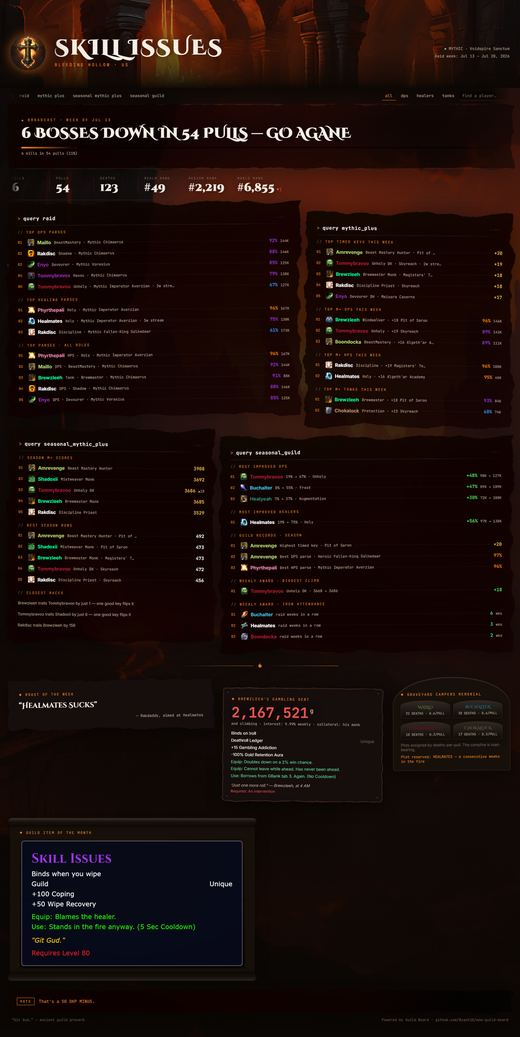
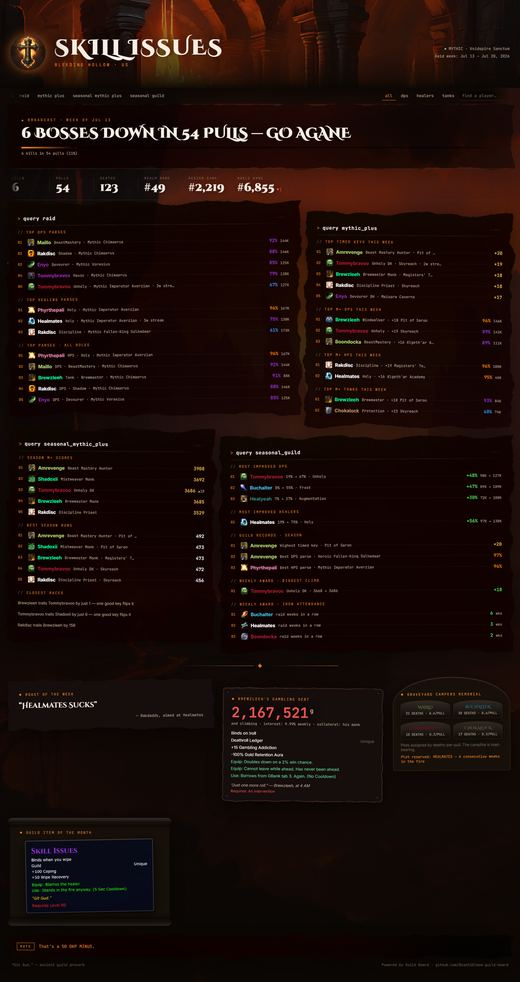
Polish: the imported item art was the last hard rectangle
The item-of-the-month tooltip arrives as a bitmap, so it can't be
edge-filtered like the other surfaces — the displacement would garble
the text inside it. Treated as a physical object instead: capped at
400px, pinned on a slight angle with a real shadow, so it reads as a
card lying on the page rather than a slab welded into the foot of it.
Its panel drops from a 6-track span to 4 to match.

Vote workflow confirmed pointing at secrets.DISCORD_WEBHOOK_URL — the
same webhook the weekly board posts through, per Zach's confirmation
that it lands in the guild-board channel. Still not triggered.

106 tests pass.

diff --git a/redesign_previews/index.html b/redesign_previews/index.html
@@ -19,20 +19,5 @@
 Both are picked in theme.yml — <code>board.web_layout</code> and the colors/art blocks.
 Resize the window (or open on your phone) to see the reflow.</p>
 <div class="g">
-    <a class="c" href="chronicle__arcanevault.html"><img src="thumbs/chronicle__arcanevault.jpg" alt="" loading="lazy"><span class="m"><span class="l">chronicle</span><span class="t">arcanevault</span></span></a>
-    <a class="c" href="codex__arcanevault.html"><img src="thumbs/codex__arcanevault.jpg" alt="" loading="lazy"><span class="m"><span class="l">codex</span><span class="t">arcanevault</span></span></a>
-    <a class="c" href="ember_terminal__arcanevault.html"><img src="thumbs/ember_terminal__arcanevault.jpg" alt="" loading="lazy"><span class="m"><span class="l">ember_terminal</span><span class="t">arcanevault</span></span></a>
-    <a class="c" href="poster__arcanevault.html"><img src="thumbs/poster__arcanevault.jpg" alt="" loading="lazy"><span class="m"><span class="l">poster</span><span class="t">arcanevault</span></span></a>
-    <a class="c" href="chronicle__drownedgods.html"><img src="thumbs/chronicle__drownedgods.jpg" alt="" loading="lazy"><span class="m"><span class="l">chronicle</span><span class="t">drownedgods</span></span></a>
-    <a class="c" href="codex__drownedgods.html"><img src="thumbs/codex__drownedgods.jpg" alt="" loading="lazy"><span class="m"><span class="l">codex</span><span class="t">drownedgods</span></span></a>
-    <a class="c" href="ember_terminal__drownedgods.html"><img src="thumbs/ember_terminal__drownedgods.jpg" alt="" loading="lazy"><span class="m"><span class="l">ember_terminal</span><span class="t">drownedgods</span></span></a>
-    <a class="c" href="poster__drownedgods.html"><img src="thumbs/poster__drownedgods.jpg" alt="" loading="lazy"><span class="m"><span class="l">poster</span><span class="t">drownedgods</span></span></a>
-    <a class="c" href="chronicle__emberforge.html"><img src="thumbs/chronicle__emberforge.jpg" alt="" loading="lazy"><span class="m"><span class="l">chronicle</span><span class="t">emberforge</span></span></a>
-    <a class="c" href="codex__emberforge.html"><img src="thumbs/codex__emberforge.jpg" alt="" loading="lazy"><span class="m"><span class="l">codex</span><span class="t">emberforge</span></span></a>
-    <a class="c" href="ember_terminal__emberforge.html"><img src="thumbs/ember_terminal__emberforge.jpg" alt="" loading="lazy"><span class="m"><span class="l">ember_terminal</span><span class="t">emberforge</span></span></a>
-    <a class="c" href="poster__emberforge.html"><img src="thumbs/poster__emberforge.jpg" alt="" loading="lazy"><span class="m"><span class="l">poster</span><span class="t">emberforge</span></span></a>
-    <a class="c" href="chronicle__gildedcodex.html"><img src="thumbs/chronicle__gildedcodex.jpg" alt="" loading="lazy"><span class="m"><span class="l">chronicle</span><span class="t">gildedcodex</span></span></a>
     <a class="c" href="codex__gildedcodex.html"><img src="thumbs/codex__gildedcodex.jpg" alt="" loading="lazy"><span class="m"><span class="l">codex</span><span class="t">gildedcodex</span></span></a>
-    <a class="c" href="ember_terminal__gildedcodex.html"><img src="thumbs/ember_terminal__gildedcodex.jpg" alt="" loading="lazy"><span class="m"><span class="l">ember_terminal</span><span class="t">gildedcodex</span></span></a>
-    <a class="c" href="poster__gildedcodex.html"><img src="thumbs/poster__gildedcodex.jpg" alt="" loading="lazy"><span class="m"><span class="l">poster</span><span class="t">gildedcodex</span></span></a>
 </div></body></html>

diff --git a/redesign_previews/ember_terminal__emberforge.html b/redesign_previews/ember_terminal__emberforge.html
@@ -186,7 +186,7 @@
   .strip > *:nth-child(1){grid-column:span 5;}
   .strip > *:nth-child(2){grid-column:span 4; margin-top:20px;}
   .strip > *:nth-child(3){grid-column:span 3; margin-top:-14px;}
-  .strip > *:nth-child(4){grid-column:span 6; margin-top:10px;}
+  .strip > *:nth-child(4){grid-column:span 4; margin-top:10px;}
   .strip > *:nth-child(n+5){grid-column:span 6;}
   .mod{--fr-surface:linear-gradient(172deg, rgba(var(--bg-rgb),.94), rgba(var(--bg-rgb),.7));}
   .mod-h{font-family:var(--font-mono); font-size:11px; letter-spacing:.2em;
@@ -366,6 +366,22 @@
     background:linear-gradient(90deg, transparent, currentColor);}
   .orn-rule i+i{background:linear-gradient(90deg, currentColor, transparent);}
   .orn-rule svg{flex:none; opacity:.9;}
+
+  /* Imported artwork (the item-of-the-month tooltip) is the one thing
+     that arrives as a hard rectangle and can't be edge-filtered — the
+     displacement would garble the text inside it. So it's treated as a
+     physical object instead: pinned on a slight angle with a real
+     shadow, so it reads as a card lying on the surface rather than a
+     block welded into the layout. */
+  .mod--item .mod-img{
+    /* capped so the tooltip reads as a pinned card, not a slab that
+       dominates the foot of the page */
+    max-width:min(100%, 400px); margin:0 auto;
+    transform:rotate(-1.1deg);
+    border-radius:3px;
+    filter:drop-shadow(0 12px 22px rgba(0,0,0,.5));
+    box-shadow:0 0 0 1px rgba(var(--bg-rgb),.5);}
+  .mod--item{overflow:visible;}
 
   /* a soft vignette instead of a hard border — used where a panel would
      otherwise read as a box */

diff --git a/redesign_previews/poster__emberforge.html b/redesign_previews/poster__emberforge.html
@@ -180,7 +180,7 @@
   .strip > *:nth-child(1){grid-column:span 5;}
   .strip > *:nth-child(2){grid-column:span 4; margin-top:18px;}
   .strip > *:nth-child(3){grid-column:span 3; margin-top:-12px;}
-  .strip > *:nth-child(4){grid-column:span 6;}
+  .strip > *:nth-child(4){grid-column:span 4;}
   .strip > *:nth-child(n+5){grid-column:span 6;}
   .mod{--fr-surface:linear-gradient(172deg, rgba(var(--bg-rgb),.92), rgba(var(--bg-rgb),.72));}
   .mod-h{font-size:13px; font-weight:800; color:var(--accent); letter-spacing:.08em;
@@ -342,6 +342,22 @@
     background:linear-gradient(90deg, transparent, currentColor);}
   .orn-rule i+i{background:linear-gradient(90deg, currentColor, transparent);}
   .orn-rule svg{flex:none; opacity:.9;}
+
+  /* Imported artwork (the item-of-the-month tooltip) is the one thing
+     that arrives as a hard rectangle and can't be edge-filtered — the
+     displacement would garble the text inside it. So it's treated as a
+     physical object instead: pinned on a slight angle with a real
+     shadow, so it reads as a card lying on the surface rather than a
+     block welded into the layout. */
+  .mod--item .mod-img{
+    /* capped so the tooltip reads as a pinned card, not a slab that
+       dominates the foot of the page */
+    max-width:min(100%, 400px); margin:0 auto;
+    transform:rotate(-1.1deg);
+    border-radius:3px;
+    filter:drop-shadow(0 12px 22px rgba(0,0,0,.5));
+    box-shadow:0 0 0 1px rgba(var(--bg-rgb),.5);}
+  .mod--item{overflow:visible;}
 
   /* a soft vignette instead of a hard border — used where a panel would
      otherwise read as a box */

diff --git a/redesign_previews/chronicle__arcanevault.html b/redesign_previews/chronicle__arcanevault.html
@@ -321,6 +321,22 @@
   .orn-rule i+i{background:linear-gradient(90deg, currentColor, transparent);}
   .orn-rule svg{flex:none; opacity:.9;}
 
+  /* Imported artwork (the item-of-the-month tooltip) is the one thing
+     that arrives as a hard rectangle and can't be edge-filtered — the
+     displacement would garble the text inside it. So it's treated as a
+     physical object instead: pinned on a slight angle with a real
+     shadow, so it reads as a card lying on the surface rather than a
+     block welded into the layout. */
+  .mod--item .mod-img{
+    /* capped so the tooltip reads as a pinned card, not a slab that
+       dominates the foot of the page */
+    max-width:min(100%, 400px); margin:0 auto;
+    transform:rotate(-1.1deg);
+    border-radius:3px;
+    filter:drop-shadow(0 12px 22px rgba(0,0,0,.5));
+    box-shadow:0 0 0 1px rgba(var(--bg-rgb),.5);}
+  .mod--item{overflow:visible;}
+
   /* a soft vignette instead of a hard border — used where a panel would
      otherwise read as a box */
   .soft-edge{

diff --git a/redesign_previews/codex__gildedcodex.html b/redesign_previews/codex__gildedcodex.html
@@ -324,6 +324,22 @@
   .orn-rule i+i{background:linear-gradient(90deg, currentColor, transparent);}
   .orn-rule svg{flex:none; opacity:.9;}
 
+  /* Imported artwork (the item-of-the-month tooltip) is the one thing
+     that arrives as a hard rectangle and can't be edge-filtered — the
+     displacement would garble the text inside it. So it's treated as a
+     physical object instead: pinned on a slight angle with a real
+     shadow, so it reads as a card lying on the surface rather than a
+     block welded into the layout. */
+  .mod--item .mod-img{
+    /* capped so the tooltip reads as a pinned card, not a slab that
+       dominates the foot of the page */
+    max-width:min(100%, 400px); margin:0 auto;
+    transform:rotate(-1.1deg);
+    border-radius:3px;
+    filter:drop-shadow(0 12px 22px rgba(0,0,0,.5));
+    box-shadow:0 0 0 1px rgba(var(--bg-rgb),.5);}
+  .mod--item{overflow:visible;}
+
   /* a soft vignette instead of a hard border — used where a panel would
      otherwise read as a box */
   .soft-edge{
